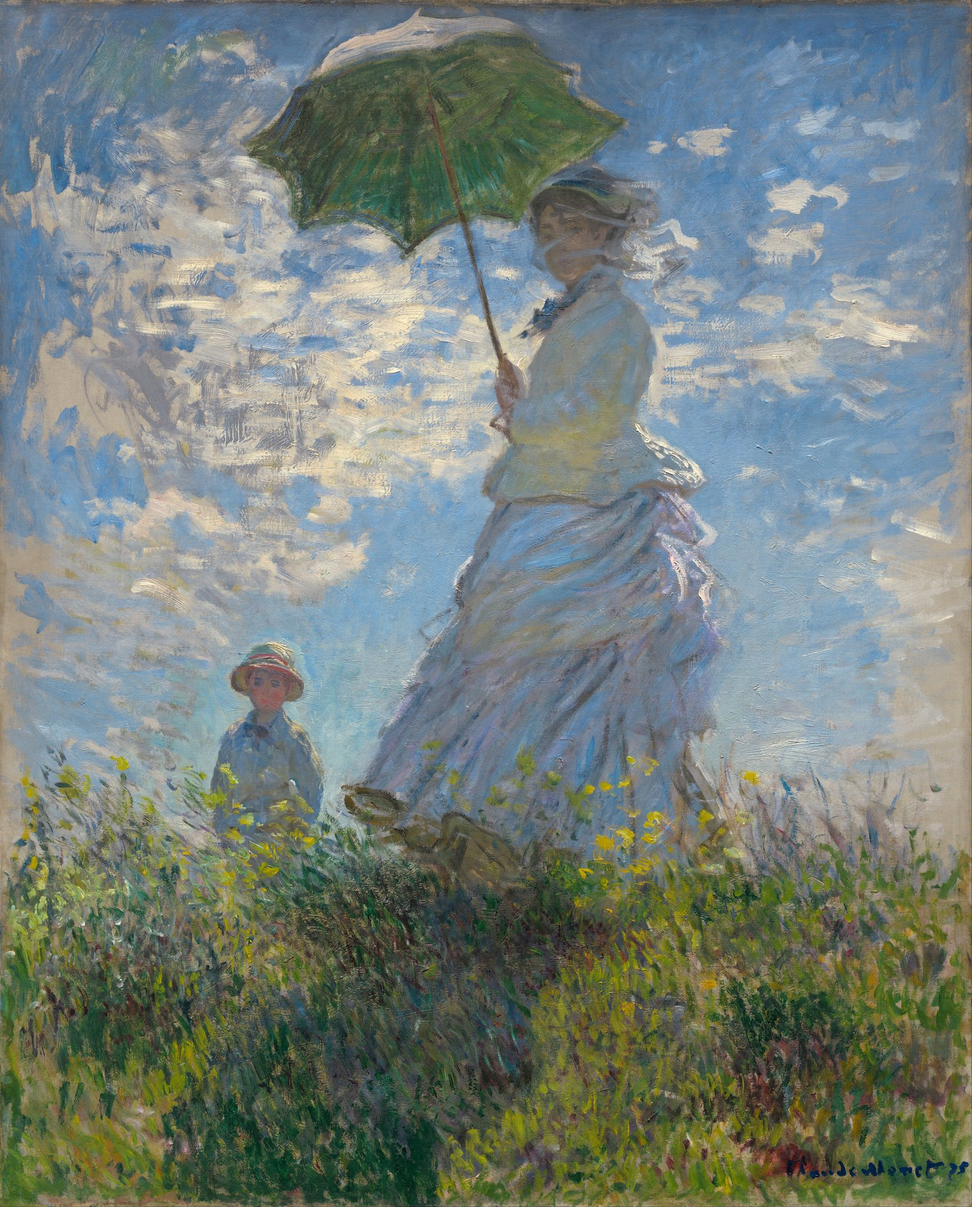
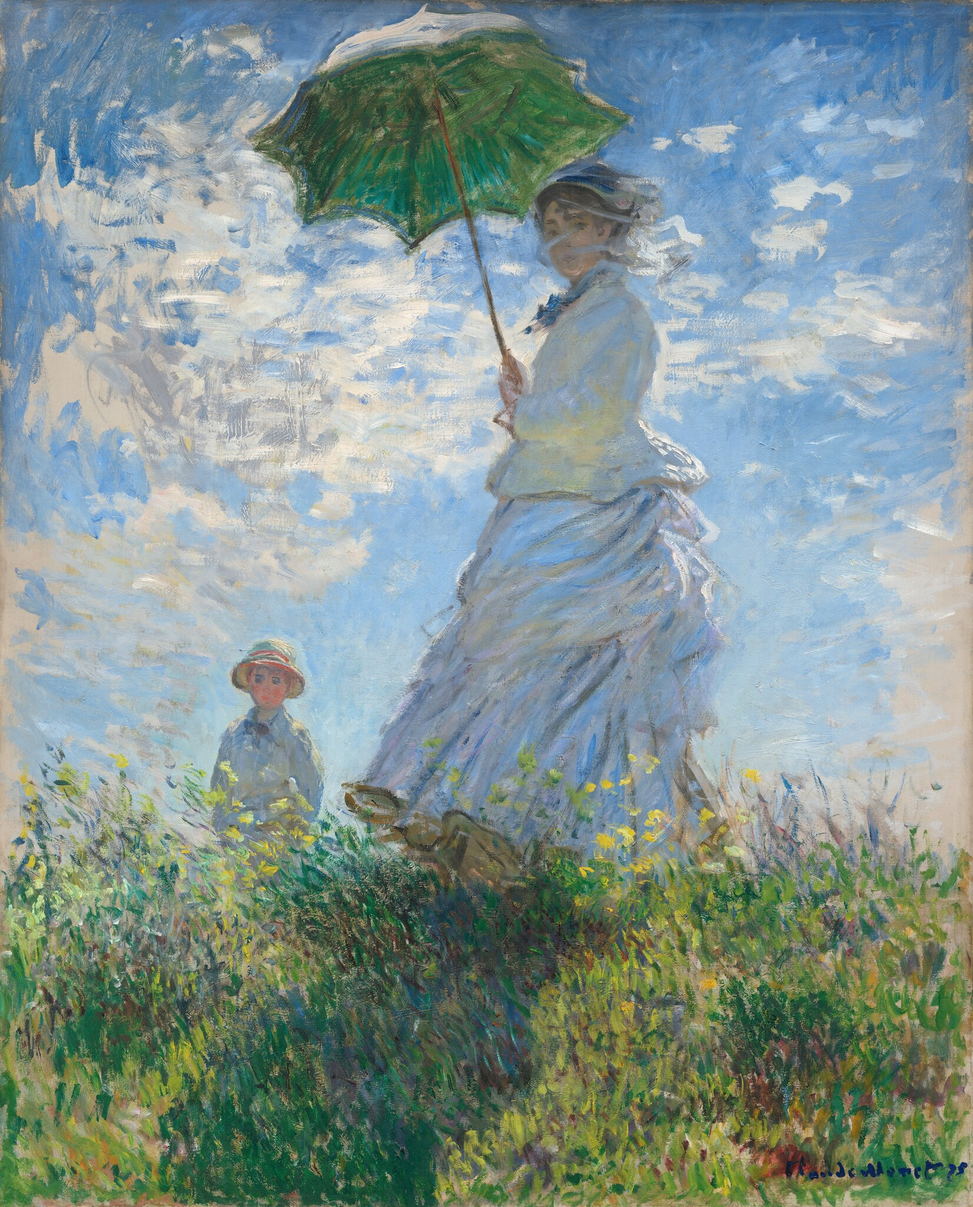
M59: the parasol's canvas taken from the Gallery's own master and not from the older photograph (fix: "the pictures are darker than the world" — measured against the museums' current open-access masters, the repository's Argenteuil and Rouen are the National Gallery of Art's own images to the hundre

diff --git a/index.html b/index.html
@@ -405,7 +405,7 @@ const places = [
     view: { p: V(.4, 1.15, 8.4), look: V(0, 2.0, -4.2), fov: 62 }, painting: { src: 'paintings/pond.jpg', hz: .5, aspect: .7997, stop: 1 }, stops: POND_STOPS, build: buildPond },
   { name: 'Woman with a Parasol', place: 'a hilltop meadow, wind', year: '1875', swatch: '#8fb6d8', file: 'parasol',
     center: V(8, 0, -100), radius: 30,
-    view: { p: V(7.43, 4.6, -89.62), look: V(8.9, 8.2, -94.8), fov: 48 }, painting: { src: 'paintings/parasol.jpg', hz: .74, aspect: .805, stop: 0 }, stops: HILL_STOPS, build: buildHill },
+    view: { p: V(7.43, 4.6, -89.62), look: V(8.9, 8.2, -94.8), fov: 48 }, painting: { src: 'paintings/parasol.jpg', hz: .74, aspect: .8066, stop: 0 }, stops: HILL_STOPS, build: buildHill },
   { name: 'The Bridge at Argenteuil', place: 'the Seine, the road bridge', year: '1874', swatch: '#5f8fb8', file: 'argenteuil',
     center: V(12, 0, -170), radius: 46,
     view: { p: V(-2, 2, -147), look: V(10, 1.4, -177.5), fov: 40 }, painting: { src: 'paintings/argenteuil.jpg', hz: .46, aspect: 1.3336, stop: 0 }, stops: RIVER_STOPS, build: buildRiver },

diff --git a/paintings/CREDITS.md b/paintings/CREDITS.md
@@ -6,7 +6,7 @@ made from the highest-resolution reproductions we could find; the originals are 
 | Place | Painting | Year | Collection | Source of the reproduction |
 |---|---|---|---|---|
 | 1 | Bridge over a Pond of Water Lilies | 1899 | The Metropolitan Museum of Art, New York (29.100.113) | Wikimedia Commons, 4699 × 5876 |
-| 2 | Woman with a Parasol – Madame Monet and Her Son | 1875 | National Gallery of Art, Washington (open access) | Wikimedia Commons / Google Art Project, 6001 × 7455 |
+| 2 | Woman with a Parasol – Madame Monet and Her Son | 1875 | National Gallery of Art, Washington (1983.1.29, open access) | the Gallery's own IIIF master, 12666 × 15698, taken at 2048 px high (the Google Art Project scan of the older photograph, 6001 × 7455, was a seventh darker across its whole range: mean luminance .49 against .57) |
 | 3 | The Bridge at Argenteuil | 1874 | National Gallery of Art, Washington (1983.1.24, open access) | Wikimedia Commons, 7999 × 5998 |
 | 4 | Poplars on the Epte | 1891 | National Galleries of Scotland, Edinburgh | Wikimedia Commons / Google Art Project, 4001 × 4001 |
 | 5 | Stacks of Wheat (End of Summer) | 1890–91 | Art Institute of Chicago (1985.1103, CC0) | Wikimedia Commons, 3000 × 1778 |
